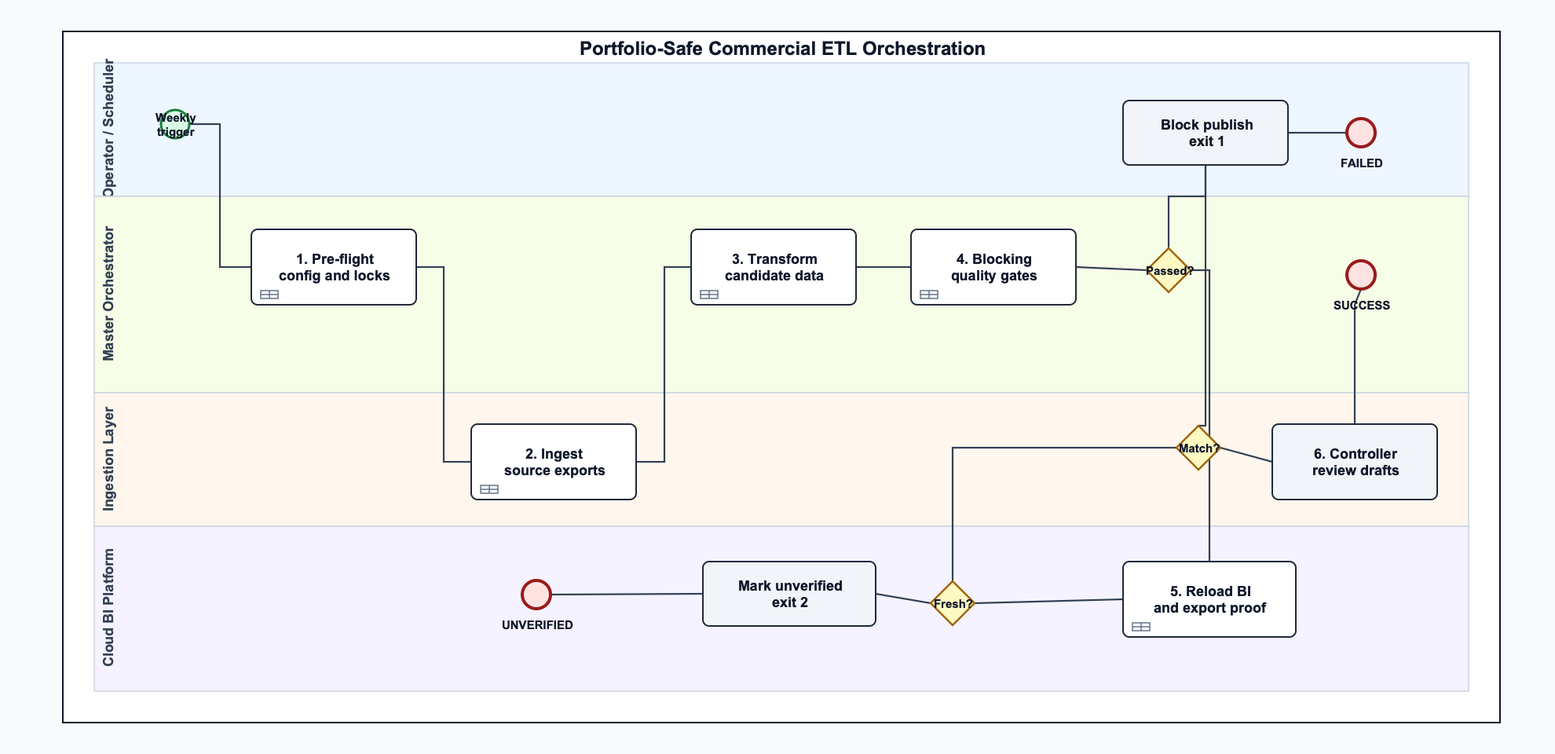
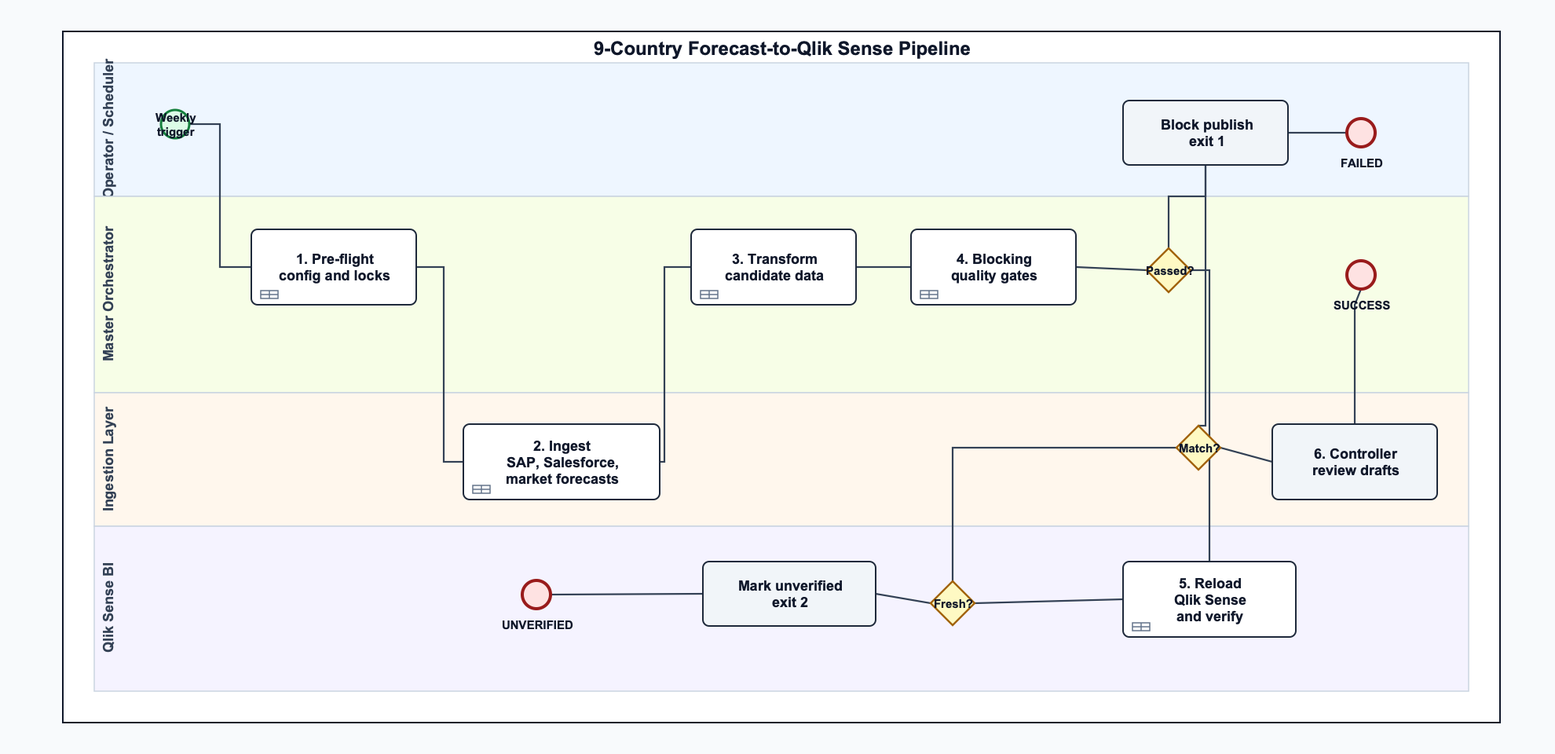
Clarify source systems and finance audience

diff --git a/docs/PORTFOLIO_EXECUTIVE_CASE_STUDY.md b/docs/PORTFOLIO_EXECUTIVE_CASE_STUDY.md
@@ -9,11 +9,11 @@
 
 ## 📌 Executive Summary
 
-To monitor regional market share and commercial performance across **8 European markets and 13 export territories**, commercial leadership required weekly consolidated dashboards reconciling multi-source actuals with forward-looking corporate forecasts.
+To serve regional finance across **9 countries**, commercial leadership required frequently refreshed Qlik Sense dashboards reconciling SAP sales actuals, MedTech Europe market data, Salesforce-entered forecast updates, and forward-looking sales and market-share forecasts maintained through an internal market-forecasting process I led during my tenure.
 
-Previously, this process was performed manually: downloading raw extracts from 4 disparate enterprise systems, manually cleaning and standardizing varying European number formats in Excel, merging records, and hand-validating figures. This manual workflow consumed **6 to 8 hours per cycle**, was vulnerable to human error, and created a critical single-person operational dependency.
+Previously, this process was performed manually: downloading raw sales, market, and forecast extracts, cleaning and standardizing varying European number formats in Excel, merging records, and hand-validating figures before Qlik Sense consumption. This manual workflow consumed **6 to 8 hours per cycle**, was vulnerable to human error, slowed the turnaround from forecast changes to updated management visuals, and created a critical single-person operational dependency.
 
-This project engineered an automated Python ETL and orchestration pipeline covering ingestion, transformation, multi-scenario financial modeling, cloud BI reloading, and validation. The production case study recorded execution in **under 4 minutes**, an approximately **98% reduction** from the manual baseline. The public repository demonstrates the transformation rules and blocking publication controls with synthetic data; private connectors and production services are intentionally excluded.
+This project engineered an automated Python ETL and orchestration pipeline covering ingestion, transformation, multi-scenario financial modeling, Qlik Sense reloading, and validation. The production case study recorded execution in **under 4 minutes**, an approximately **98% reduction** from the manual baseline, helping management review updated goals, market-share movement, and performance benchmarks much closer to the forecast update cycle. The public repository demonstrates the transformation rules and blocking publication controls with synthetic data; private connectors and production services are intentionally excluded.
 
 ---
 
@@ -21,7 +21,7 @@ This project engineered an automated Python ETL and orchestration pipeline cover
 
 | Metric | Before (Manual Process) | After (Automated Pipeline) | Impact |
 | :--- | :--- | :--- | :--- |
-| **Cycle Execution Time** | 6 – 8.5 hours / run | **~4 minutes reported in production** | **Approximately 98% reported reduction** |
+| **Forecast-to-Visual Turnaround** | 6 – 8.5 hours / update cycle | **~4 minutes reported in production** | Faster management visibility into revised goals, market share, and performance benchmarks |
 | **Data Ingestion & Merge** | Manual download & Excel copy-paste | Headless Selenium + Vectorized Pandas | Fully automated multi-source ingestion |
 | **Data Quality Verification** | Ad-hoc manual spot-checks | **17 checks across five quality tiers** | Blocking pre-publication failures preserve the last valid dataset; downstream mismatches fail the run |
 | **Edge Case & Regression Coverage**| Zero formal test coverage | **Self-contained public unit, stress, and demo suite** | Handles European numbers, blanks, nulls, schema failures, and publication controls |
@@ -35,14 +35,15 @@ This project engineered an automated Python ETL and orchestration pipeline cover
 ```
    ┌────────────────────────────────────────────────────────────────────────┐
    │                       MULTI-SOURCE INGESTION                           │
-   │  Commercial CRM        Corporate Planning      Diagnostics Feed        │
-   │  (Historical Actuals)  (Live/Static Forecasts) (Quarterly Registry)    │
+   │  SAP Sales Actuals     MedTech Europe Market   Salesforce Updates      │
+   │  (Historical Sales)    (Market Reference)      (Manual Forecast Edits) │
+   │  Internal Forecasting  (Sales & Market-Share Plans)                    │
    └───────────────────┬────────────────────────────────────────────────────┘
                        │ Automated Headless Browser Ingestion (Selenium + Auth)
                        ▼
    ┌────────────────────────────────────────────────────────────────────────┐
    │                  CORE ETL & FINANCIAL DISAGGREGATION                   │
-   │  • Unified country/territory remapping (8 core entities + 13 exports)   │
+   │  • Unified country and territory remapping for 9-country finance views  │
    │  • Robust numeric parsing (EU decimals `1.234,56` vs US formats)       │
    │  • Multi-scenario generation: Full Market, Addressable, Weighted Views │
    └───────────────────┬────────────────────────────────────────────────────┘
@@ -55,8 +56,8 @@ This project engineered an automated Python ETL and orchestration pipeline cover
                        │ Passing Candidate Published Atomically
                        ▼
    ┌────────────────────────────────────────────────────────────────────────┐
-   │              BI CLOUD RELOAD & CURRENT-RUN VERIFICATION                │
-   │  Reload, export fresh evidence, and reconcile against Python totals    │
+   │              QLIK SENSE RELOAD & CURRENT-RUN VERIFICATION              │
+   │  Reload dashboards, export fresh evidence, reconcile Python totals      │
    └───────────────────┬────────────────────────────────────────────────────┘
                        │
          ┌─────────────┼─────────────┐
@@ -70,7 +71,7 @@ This project engineered an automated Python ETL and orchestration pipeline cover
 ## ⚙ Core Technical Highlights
 
 1. **Multi-Scenario Commercial Modeling:**
-   Automated the dynamic disaggregation of quarterly diagnostic and market volumes across three strategic views (**Full Market**, **Addressable Market**, and **Addressable Weighted Market**), eliminating error-prone manual Excel modeling.
+   Automated the dynamic disaggregation of SAP sales actuals, MedTech Europe market references, Salesforce-entered forecast updates, and internally led sales and market-share forecasts across three strategic views (**Full Market**, **Addressable Market**, and **Addressable Weighted Market**), eliminating error-prone manual Excel modeling.
 
 2. **Defense-in-Depth Quality Assurance and Blocking Publication:**
    Engineered 17 independent automated checks categorized into:
@@ -94,4 +95,4 @@ This project engineered an automated Python ETL and orchestration pipeline cover
 * **Language & Core:** Python 3.10+, Pandas, NumPy, PyYAML
 * **Automation & Orchestration:** Selenium WebDriver (Persistent Browser Profile Session), Custom Orchestrator
 * **Data Validation & Testing:** Pytest, Pandera Schema Validation, temporary synthetic fixtures, custom anomaly rules
-* **BI & Consumption:** Qlik Cloud Analytics Engine, Automated SMTP Reporting, Responsive HTML/CSS Email Templates
+* **BI & Consumption:** Qlik Sense Analytics, Automated SMTP Reporting, Responsive HTML/CSS Email Templates

diff --git a/docs/PORTFOLIO_TECHNICAL_CAPABILITY_SHOWCASE.md b/docs/PORTFOLIO_TECHNICAL_CAPABILITY_SHOWCASE.md
@@ -14,7 +14,7 @@
 | **1** | **Dynamic Multi-Scenario Modeling** | Business requires 3 different strategic views of market share without manual Excel pivot models. | Vectorized quarterly disaggregation and synthetic row generation conserving organization volume. | Pandas, NumPy |
 | **2** | **Headless Authenticated Ingestion Engine** | Upstream enterprise portals lack public REST APIs; require authenticated browser downloads. | Headless Selenium automation with persistent user profile, auto-wait conditions, and retry loops. | Selenium, Chrome WebDriver |
 | **3** | **Heterogeneous EU/US Numeric Normalizer** | Source files mix European comma decimals (`1.234,50`), US dots (`1,234.50`), and apostrophe separators (`1'234`). | Validated locale-aware parser with explicit handling for ambiguous single separators. | Python regex, Custom Parser |
-| **4** | **Closed-Loop Cloud BI Orchestration** | Triggering BI reloads blindly risks dashboards displaying corrupted or incomplete loads. | Two-way handshake: triggers Qlik Cloud reload, polls verification tables, and validates against CSV. | Qlik Cloud Engine, REST/DOM Polling |
+| **4** | **Closed-Loop Qlik Sense Orchestration** | Triggering BI reloads blindly risks dashboards displaying corrupted or incomplete loads. | Two-way handshake: triggers Qlik Sense reload, polls verification tables, and validates against CSV. | Qlik Sense, REST/DOM Polling |
 | **5** | **Field Governance Email Generator** | Manually emailing 8 regional controllers about input data anomalies takes hours of back-and-forth. | Automatic compilation of anomaly logs into localized, ready-to-forward responsive HTML email drafts. | Jinja2/HTML templates, SMTP |
 | **6** | **Synthetic Stress Harness** | Silent regressions occur when upstream systems tweak column names or insert unexpected nulls. | Self-contained pytest suite generates temporary corrupted spreadsheets and tests parser, schema, mapping, publication, and demo behavior. | Pytest, Pandera Schemas |
 
@@ -61,7 +61,7 @@ for macro strategy  competitive scope      commercial index
 ### 2. Resilient Headless Ingestion & Session Management
 
 #### The Challenge
-Data feeds originate from four disparate internal systems (Commercial CRM, Diagnostic Registries, and forecasting portals). None exposed public API endpoints; all required authenticated corporate enterprise sign-in.
+Data feeds originated from SAP sales downloads, MedTech Europe market reference files, Salesforce-entered employee forecast updates, and internally maintained sales forecast and market-share forecast inputs. The forecasting process was led by the pipeline owner during the production period and served regional finance reporting across 9 countries. Private source connectors are excluded from the public repository.
 
 #### The Solution (`integration/downloaders/`)
 Built an enterprise-grade web scraping and file ingestion layer using **Selenium WebDriver**:
@@ -98,10 +98,10 @@ Repeated grouping separators such as `1,234,567` are recognized as thousands gro
 
 ---
 
-### 4. Closed-Loop Cloud BI Orchestration & Post-Reload Reconciliation
+### 4. Closed-Loop Qlik Sense Orchestration & Post-Reload Reconciliation
 
 #### The Challenge
-Traditional data pipelines push data into a cloud BI platform (like Qlik Cloud, Tableau, or PowerBI) and terminate. If the cloud engine experiences an indexing failure, memory exhaustion, or load-script syntax issue, dashboards silently display stale or partial data.
+Traditional data pipelines push data into a BI platform and terminate. In this production case, Qlik Sense dashboards served regional finance and management users who used the visuals for goal setting, market-share review, and performance benchmarking. If the BI engine experienced an indexing failure, memory exhaustion, or load-script syntax issue, dashboards could silently display stale or partial data.
 
 #### The Solution (`integration/helpers/reload_helpers.py` & `validation_helpers.py`)
 Implemented a **blocking publication gate followed by a two-way verification handshake**:
@@ -110,7 +110,7 @@ Implemented a **blocking publication gate followed by a two-way verification han
 [Candidate Dataset] -> [Blocking QA]
        | failed              | passed
        v                     v
-[Retain Prior Dataset]  [Atomic Publication] -> [Qlik Reload]
+[Retain Prior Dataset]  [Atomic Publication] -> [Qlik Sense Reload]
                                                   |
                                                   v
                                       [Current-Run Verification]
@@ -132,7 +132,7 @@ Implemented a **blocking publication gate followed by a two-way verification han
 ### 5. Automated Field Governance: Local Controller Email Generator
 
 #### The Challenge
-When regional sales subsidiaries submit quarterly forecasts, manual errors inevitably slip in (e.g., duplicated past-year numbers, unrefined placeholder numbers like `500`, or missing quarters). Tracking down controllers across 8 countries required days of manual email drafting.
+When regional sales teams and employees submit quarterly sales and market-share forecast updates, including manual Salesforce updates, errors inevitably slip in (e.g., duplicated past-year numbers, unrefined placeholder numbers like `500`, or missing quarters). Tracking down finance controllers across 9 countries required days of manual email drafting.
 
 #### The Solution
 When the plausibility validation engine flags anomalies, it dynamically renders **tailored, responsive HTML email drafts** per country code (`controller_drafts/{Country_Code}_data_review.html`):

diff --git a/docs/PORTFOLIO_DATA_QUALITY_MATRIX.md b/docs/PORTFOLIO_DATA_QUALITY_MATRIX.md
@@ -67,7 +67,7 @@ This pipeline implements an active **5-Tier Defense-in-Depth Data Quality Framew
 | **6** | **Cross-Scenario Internal Consistency** | Tier 3 | 🔴 **Critical Block** | Cross-checks company units across all 3 reporting views (*Full Market*, *Addressable Market*, *Addressable Weighted*). | Enforces that organization baseline performance remains strictly identical across scenario models. |
 | **7** | **Magnitude Spike & Formatting Outlier Check** | Tier 4 | 🔴 **Critical Block** | Compares Live vs. Static forecast ratios per year/country/product; flags any ratio $>10\times$. | **Caught a 1,000x volume inflation bug** caused by European comma vs. US period decimal string parsing. |
 | **8** | **Minimum Row-Count Sanity Gate** | Tier 2 | 🔴 **Critical Block** | Enforces conservative minimum row thresholds per source and scenario (e.g., CRM Addressable $\ge 5,000$ rows). | Instantly halts the pipeline if a source file is truncated or an upstream filter drops an entire product family. |
-| **9** | **End-to-End Cloud BI Checksum** | Tier 3 | 🔴 **Post-Reload Failure Gate** | Accepts only a current-run Qlik export, then compares aggregate totals against the validated Python master CSV ($Tolerance < 1.0\text{ EUR}$). Missing or stale evidence produces `UNVERIFIED`; a checksum mismatch produces `FAILED`. | Catches Qlik load-script formula bugs, server-side reload timeouts, partial app cache corruption, and stale verification reuse. |
+| **9** | **End-to-End Qlik Sense Checksum** | Tier 3 | 🔴 **Post-Reload Failure Gate** | Accepts only a current-run Qlik Sense export, then compares aggregate totals against the validated Python master CSV ($Tolerance < 1.0\text{ EUR}$). Missing or stale evidence produces `UNVERIFIED`; a checksum mismatch produces `FAILED`. | Catches Qlik load-script formula bugs, server-side reload timeouts, partial app cache corruption, and stale verification reuse. |
 | **10** | **Negative Unit Threshold & Whitelist** | Tier 4 | 🔴 **Critical Block** | Flags any net unit value $< -100$; filters against an audited whitelist of verified accounting reversals (returns/EOL). | Catches formula inversion bugs in manual adjustment spreadsheets. |
 | **11** | **Forecast Copy-Paste Detection** | Tier 5 | 🟡 **Warning Alert** | Scans multi-year forward projections for identical organization and market units across consecutive planning years. | Identifies field analysts who duplicated previous year forecasts without updating planning assumptions. |
 | **12** | **Suspicious Round-Number Heuristics** | Tier 5 | 🟡 **Warning Alert** | Detects forecast figures rounded to exact hundreds/thousands when historical actuals exhibit organic variance. | Flags unrefined placeholder numbers entered by regional planning teams prior to finalized reviews. |
@@ -84,7 +84,7 @@ This pipeline implements an active **5-Tier Defense-in-Depth Data Quality Framew
 ### Case 1: The "European Decimal 1,000x Inflation Bug" (Check #7)
 * **The Root Cause:** In German and French operating extracts, numbers are formatted with period thousand separators and comma decimals (e.g., `1.234,50`). In US-formatted extracts, commas represent thousands (e.g., `1,234.50`). A single-separator value such as `1,500` is intrinsically ambiguous without a source-format contract; blindly removing the comma can turn a decimal-intended value into a **1,000x inflation**.
 * **The Governance Gate:** Check #7 evaluates the ratio between Live forecast submissions and verified Static planning baselines for every `(Year, Country, Product)` tuple.
-* **The Blocking Gate:** When the ratio hit `1000.0x`, Check #7 failed the candidate, generated an alert, and blocked the Qlik Cloud reload. The shared `num_smart()` parser now validates grouping, handles mixed and apostrophe formats, and rejects ambiguous single separators unless the source explicitly supplies decimal or thousands policy.
+* **The Blocking Gate:** When the ratio hit `1000.0x`, Check #7 failed the candidate, generated an alert, and blocked the Qlik Sense reload. The shared `num_smart()` parser now validates grouping, handles mixed and apostrophe formats, and rejects ambiguous single separators unless the source explicitly supplies decimal or thousands policy.
 
 ### Case 2: Silent Data Drop in Overseas Territories (Check #3)
 * **The Root Cause:** During an ETL migration, a SQL-like merge condition `on=['COUNTRY_CODE']` dropped 13 export territories (e.g., French Overseas Departments and regional distributor codes) because the secondary lookup table only listed sovereign European nations.

diff --git a/README.md b/README.md
@@ -2,11 +2,11 @@
 
 [![CI](https://github.com/mattbang/enterprise-commercial-etl-pipeline/actions/workflows/ci.yml/badge.svg)](https://github.com/mattbang/enterprise-commercial-etl-pipeline/actions/workflows/ci.yml)
 
-**Three reporting views, consistent organization totals, and quality checks that block invalid output.** This Python project turns market and organization data into Full, Addressable, and Weighted market scenarios. A runnable synthetic demo makes the transformations and controls easy to inspect.
+**Three reporting views, consistent organization totals, and quality checks that block invalid output.** This Python project turns SAP sales downloads, MedTech Europe market data, Salesforce forecast updates, and internally managed sales and market-share forecasts into Full, Addressable, and Weighted market scenarios for regional finance teams across 9 countries. The production workflow reduced turnaround time between forecast updates and refreshed management visuals used for goal setting and performance benchmarking. A runnable synthetic demo makes the transformations and controls easy to inspect.
 
 Built by [Matthew Bangle](https://www.linkedin.com/in/matthew-bangle/), working across business analysis, data quality, reporting automation, and operational handover.
 
-The public demo uses synthetic inputs and needs no company account or private service. The production case study describes a wider Python and Qlik workflow whose private connectors are excluded. See the [scope and limitations](docs/PUBLIC_DEMO_BOUNDARY.md).
+The public demo uses synthetic inputs and needs no company account or private service. The production case study describes a wider Python-to-Qlik Sense workflow whose private SAP, Salesforce, forecasting, and BI connectors are excluded. See the [scope and limitations](docs/PUBLIC_DEMO_BOUNDARY.md).
 
 ## The Result
 
@@ -50,6 +50,7 @@ This injects a capacity violation. Nine checks pass and one fails; the process e
 The project connects business definitions to testable reporting logic:
 
 - Defined reporting grain, product mappings, territory rules, and three market scenarios.
+- Integrated SAP sales actuals, MedTech Europe market references, Salesforce-entered forecast updates, internally led forecast inputs, and Qlik Sense reporting outputs into one governed flow.
 - Implemented Python loading, numeric normalization, transformation, and reconciliation.
 - Added checks for schema, mappings, capacity, conservation, and publication readiness.
 - Designed orchestration with explicit success, failure, and unverified outcomes.
@@ -82,7 +83,7 @@ The production-reference sequence extends this with validated CSV publication, Q
 | Public demo | Python, pandas, NumPy, YAML: load, transform, and apply rules |
 | Validation and tests | Pandera, pytest, openpyxl: contracts, regressions, and workbook fixtures |
 | Continuous integration | GitHub Actions on Python 3.10 and 3.12 |
-| Production case study | Selenium ingestion, Qlik Cloud reporting, BPMN 2.0 process documentation |
+| Production case study | SAP sales downloads, Salesforce forecast updates, MedTech Europe market data, internal sales and market-share forecasts, Qlik Sense reporting, BPMN 2.0 process documentation |
 
 ## Verification
 
@@ -97,7 +98,7 @@ CI runs on pull requests and pushes to `main`. Dependency files specify supporte
 
 ## Business Context
 
-The original workflow combined commercial sources with inconsistent formats and product definitions. Spreadsheet preparation made reporting slow and dependent on specialist knowledge. Configuration-driven rules, reconciliation, and handover documentation made the process repeatable.
+The original workflow served regional finance stakeholders across 9 countries by combining SAP sales actuals, MedTech Europe market data, Salesforce-entered forecast updates, and internally maintained sales and market-share forecasts for Qlik Sense reporting. The refreshed visuals supported management goal setting and performance benchmarking. Spreadsheet preparation made reporting slow and dependent on specialist knowledge; the pipeline reduced turnaround time between forecast updates and updated management visuals.
 
 The original implementation was delivered during previous employment and handed over on departure. This repository is maintained as a portfolio demonstration, not an active production deployment.
 

diff --git a/docs/PORTFOLIO_BPMN_PROCESS_FLOW.md b/docs/PORTFOLIO_BPMN_PROCESS_FLOW.md
@@ -9,7 +9,7 @@
 
 ## High-Level Orchestration Flow
 
-The top-level orchestration model links four operational lanes. The editable BPMN source contains the collapsed sub-processes, and the exported PNG below is the current portfolio-safe rendering.
+The top-level orchestration model links four operational lanes. It covers SAP sales downloads, MedTech Europe market reference data, Salesforce-entered forecast updates, internally led sales and market-share forecasts, and Qlik Sense reporting for regional finance stakeholders across 9 countries. The resulting dashboards helped management set goals and benchmark business performance with a much shorter delay after forecast changes. The editable BPMN source contains the collapsed sub-processes, and the exported PNG below is the current portfolio-safe rendering.
 
 ![Portfolio-safe commercial ETL orchestration BPMN export](pipeline_orchestration.png)
 
@@ -21,7 +21,7 @@ sequenceDiagram
     actor Op as Operator Scheduler
     participant Orch as Master Orchestrator
     participant DL as Ingestion Layer
-    participant BI as Cloud BI Platform
+    participant BI as Qlik Sense
     actor Ctrl as Controllers
 
     %% 1. Pre-Flight
@@ -83,9 +83,9 @@ Opening [docs/pipeline_orchestration.bpmn](pipeline_orchestration.bpmn) in **Cam
 * **Trigger:** Pre-flight checks passed.
 * **Granular Operations:**
   1. `Task_DL_InitSession`: Attaches to persistent Chrome user profile (`chrome_profile_path`), bypassing interactive sign-in prompts.
-  2. `Task_DL_Crm`: Navigates commercial CRM portal, triggers automated report generation, and captures historical actuals (`Market Tracker CRM DL.xlsx`).
-  3. `Task_DL_Diagnostics`: Automates extraction of quarterly diagnostic registry files (`ICM_Market_DL.xlsx` & `ICM_BIO_DL.xlsx`).
-  4. `Task_DL_Forecasts`: Extracts live working forecasts and point-in-time static planning baselines.
+  2. `Task_DL_SapSales`: Downloads SAP sales actuals for the current reporting cycle.
+  3. `Task_DL_MedTechMarket`: Stages MedTech Europe market reference data for market-share denominators.
+  4. `Task_DL_Forecasts`: Extracts Salesforce-entered forecast updates plus internally maintained sales forecast and market-share forecast inputs from the planning process led by the pipeline owner during the production period.
   5. `Task_DL_VerifyFiles`: Monitors the OS download folder, polling until `.crdownload` temporary buffers finish and asserting minimum file sizes ($>50\text{ KB}$).
 * **Exit Milestone:** All 4 raw extracts staged in `data/in/`.
 
@@ -118,10 +118,10 @@ Opening [docs/pipeline_orchestration.bpmn](pipeline_orchestration.bpmn) in **Cam
 
 ---
 
-### Sub-Process 5: Qlik Cloud BI Orchestration & Verification Extraction
+### Sub-Process 5: Qlik Sense BI Orchestration & Verification Extraction
 * **Trigger:** Validated CSV published to shared storage.
 * **Granular Operations:**
-  1. `Task_BI_Trigger`: Authenticates and dispatches the Qlik Cloud reload.
+  1. `Task_BI_Trigger`: Authenticates and dispatches the Qlik Sense reload.
   2. `Timer_BI_Wait`: Allows server-side calculation and data-model indexing.
   3. `Task_BI_PollStatus`: Requires a successful reload result.
   4. `Task_BI_ExportVerification`: Accepts only a verification export created during the current run.

diff --git a/docs/PORTFOLIO_HANDOVER_TRAINING_GUIDE.md b/docs/PORTFOLIO_HANDOVER_TRAINING_GUIDE.md
@@ -57,7 +57,7 @@ Never infer success from a completion message alone. The process has three expli
                                          │
      ┌───────────────────────────────────┼───────────────────────────────────┐
      ▼                                   ▼                                   ▼
-[1. CLI Terminal]              [2. Automated Email]           [3. Cloud BI Evidence]
+[1. CLI Terminal]              [2. Automated Email]           [3. Qlik Sense Evidence]
 SUCCESS = exit 0               Subject matches terminal       Current-run verification
 FAILED = exit 1                state and includes QA detail    timestamp and expected totals
 UNVERIFIED = exit 2
@@ -114,12 +114,12 @@ When an operational exception occurs, reference this structured diagnosis matrix
 |---|:---|:---|:---|
 | **1** | `TimeoutException` during download | Expired browser session or stale background browser process. | Kill orphan Chrome tasks in Task Manager; execute Playbook C above. |
 | **2** | `PermissionError: [Errno 13]` | An Excel file in `data/` is locked by a user. | Close all local Excel windows; delete temporary `~$*.xlsx` lock files. |
-| **3** | `[FAILED] ASP Checksum` | Cloud BI data model totals differ from CSV. | Wait 2 minutes for cloud indexing; re-run `orchestrate_update.py --skip-downloads`. |
+| **3** | `[FAILED] ASP Checksum` | Qlik Sense data model totals differ from CSV. | Wait 2 minutes for BI indexing; re-run `orchestrate_update.py --skip-downloads`. |
 | **4** | `KeyError: 'COLUMN_NAME'` | Upstream extract modified header format. | Compare raw extract headers with `core/schemas.py`; update column aliases. |
 | **5** | `[FAILED] Check #7 Magnitude` | European comma/decimal format inversion. | Check source file for thousands formatting (`1.234,50` vs `1,234.50`); run regex parser. |
 | **6** | `[FAILED] Check #3 Country Drop`| Unmapped territory or overseas code. | Add country code to `country_code_map` in `config/mappings.yaml`. |
 | **7** | `[FAILED] Row Count Sanity` | Incomplete download or empty source file. | Inspect `data/in/`; confirm source extract file size is $>50\text{ KB}$. |
-| **8** | `503 Service Unavailable` | Cloud BI API undergoing cloud maintenance. | Inspect corporate IT status page; retry execution once API restores. |
+| **8** | `503 Service Unavailable` | Qlik Sense API undergoing service maintenance. | Inspect the appropriate service status page; retry execution once API restores. |
 | **9** | `ModuleNotFoundError` | Virtual environment dependencies missing. | Execute `pip install -r requirements.txt` in terminal. |
 | **10**| `UnicodeDecodeError` | Source CSV saved in non-standard encoding. | Re-save source extract in UTF-8 or update `read_csv(encoding='latin-1')`. |
 | **11**| `[FAILED] Negative Units` | Large unapproved negative unit quantity. | Check `data/out/QA_Forecast_Plausibility.csv`; verify if return or formula error. |
